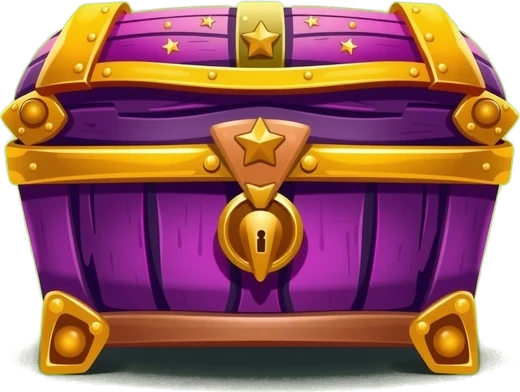
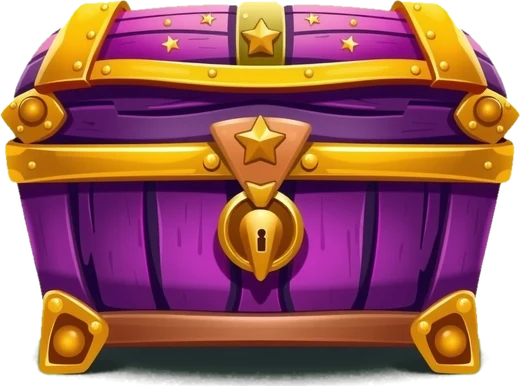
Chest: clean outline, light rising from inside instead of a dark disc
Claude-Session: https://claude.ai/code/session_017Bk6KVZnrB9WzKFhaj8hJK

Changed region(s): [[0.0, 0.0, 1.0, 0.9948], [0.4615, 0.3109, 0.5538, 0.3731], [0.4615, 0.4041, 0.5231, 0.4352]]

diff --git a/src/ui/shop-scene.js b/src/ui/shop-scene.js
@@ -158,14 +158,25 @@ function drawPaintedChest(g, im, s, open, glowCol, shake) {
   const sy = im.height * LID;
   // Light escaping from under the lid while it shakes.
   if (open < 1) A.glow(g, 0, top + cut, s * (0.45 + shake * 0.4), glowCol, 0.3 + shake * 0.6);
-  g.drawImage(im, 0, sy, im.width, im.height - sy, -w / 2, top + cut, w, h - cut);
   if (open > 0) {
-    // The inside, glowing in the rarity's colour.
-    g.fillStyle = '#1c0b2b';
-    A.ellipse(g, 0, top + cut + s * 0.015, w * 0.42, s * 0.1 * open);
+    // The opening, full of light in the rarity's colour; the front of the box hides its lower half.
+    const ry = s * 0.12 * open;
+    const iy = top + cut + s * 0.03;
+    const inner = g.createRadialGradient(0, iy, 0, 0, iy, w * 0.44);
+    inner.addColorStop(0, 'rgba(255,255,240,' + 0.95 * open + ')');
+    inner.addColorStop(0.45, glowCol + 0.8 * open + ')');
+    inner.addColorStop(1, glowCol + '0)');
+    g.save();
+    g.translate(0, iy);
+    g.scale(1, ry / (w * 0.44));
+    g.fillStyle = inner;
+    g.beginPath();
+    g.arc(0, 0, w * 0.44, 0, A.TAU);
     g.fill();
-    A.glow(g, 0, top + cut, s * (0.6 + open * 0.5), glowCol, 0.9 * open);
+    g.restore();
+    A.glow(g, 0, top + cut, s * (0.6 + open * 0.5), glowCol, 0.8 * open);
   }
+  g.drawImage(im, 0, sy, im.width, im.height - sy, -w / 2, top + cut, w, h - cut);
   // The lid tips back: it rises and flattens.
   g.save();
   g.translate(0, top + cut - open * s * 0.3);

diff --git a/sw.js b/sw.js
@@ -1,5 +1,5 @@
 // Generated by tools/build-sw.mjs — offline support for Lumignons.
-const CACHE = 'lumignons-b0f89c09f9';
+const CACHE = 'lumignons-78a4e5f8f0';
 const FILES = [
   "./",
   "./assets/fonts/OFL-Fredoka.txt",
